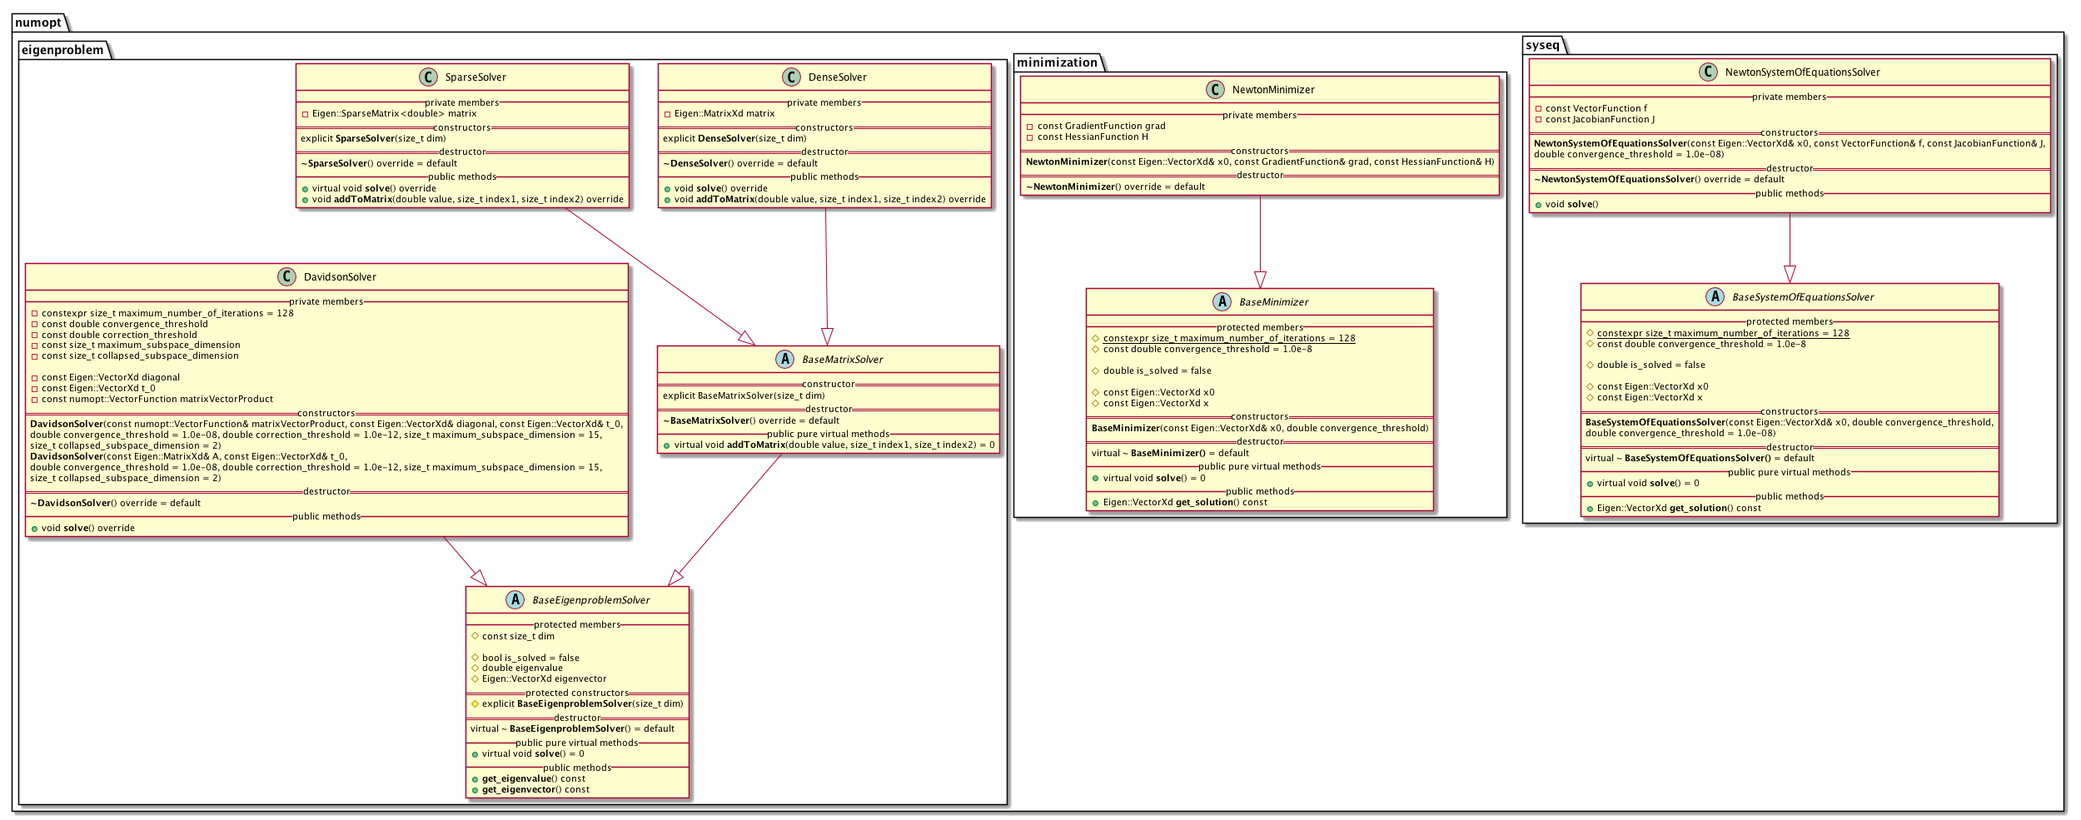
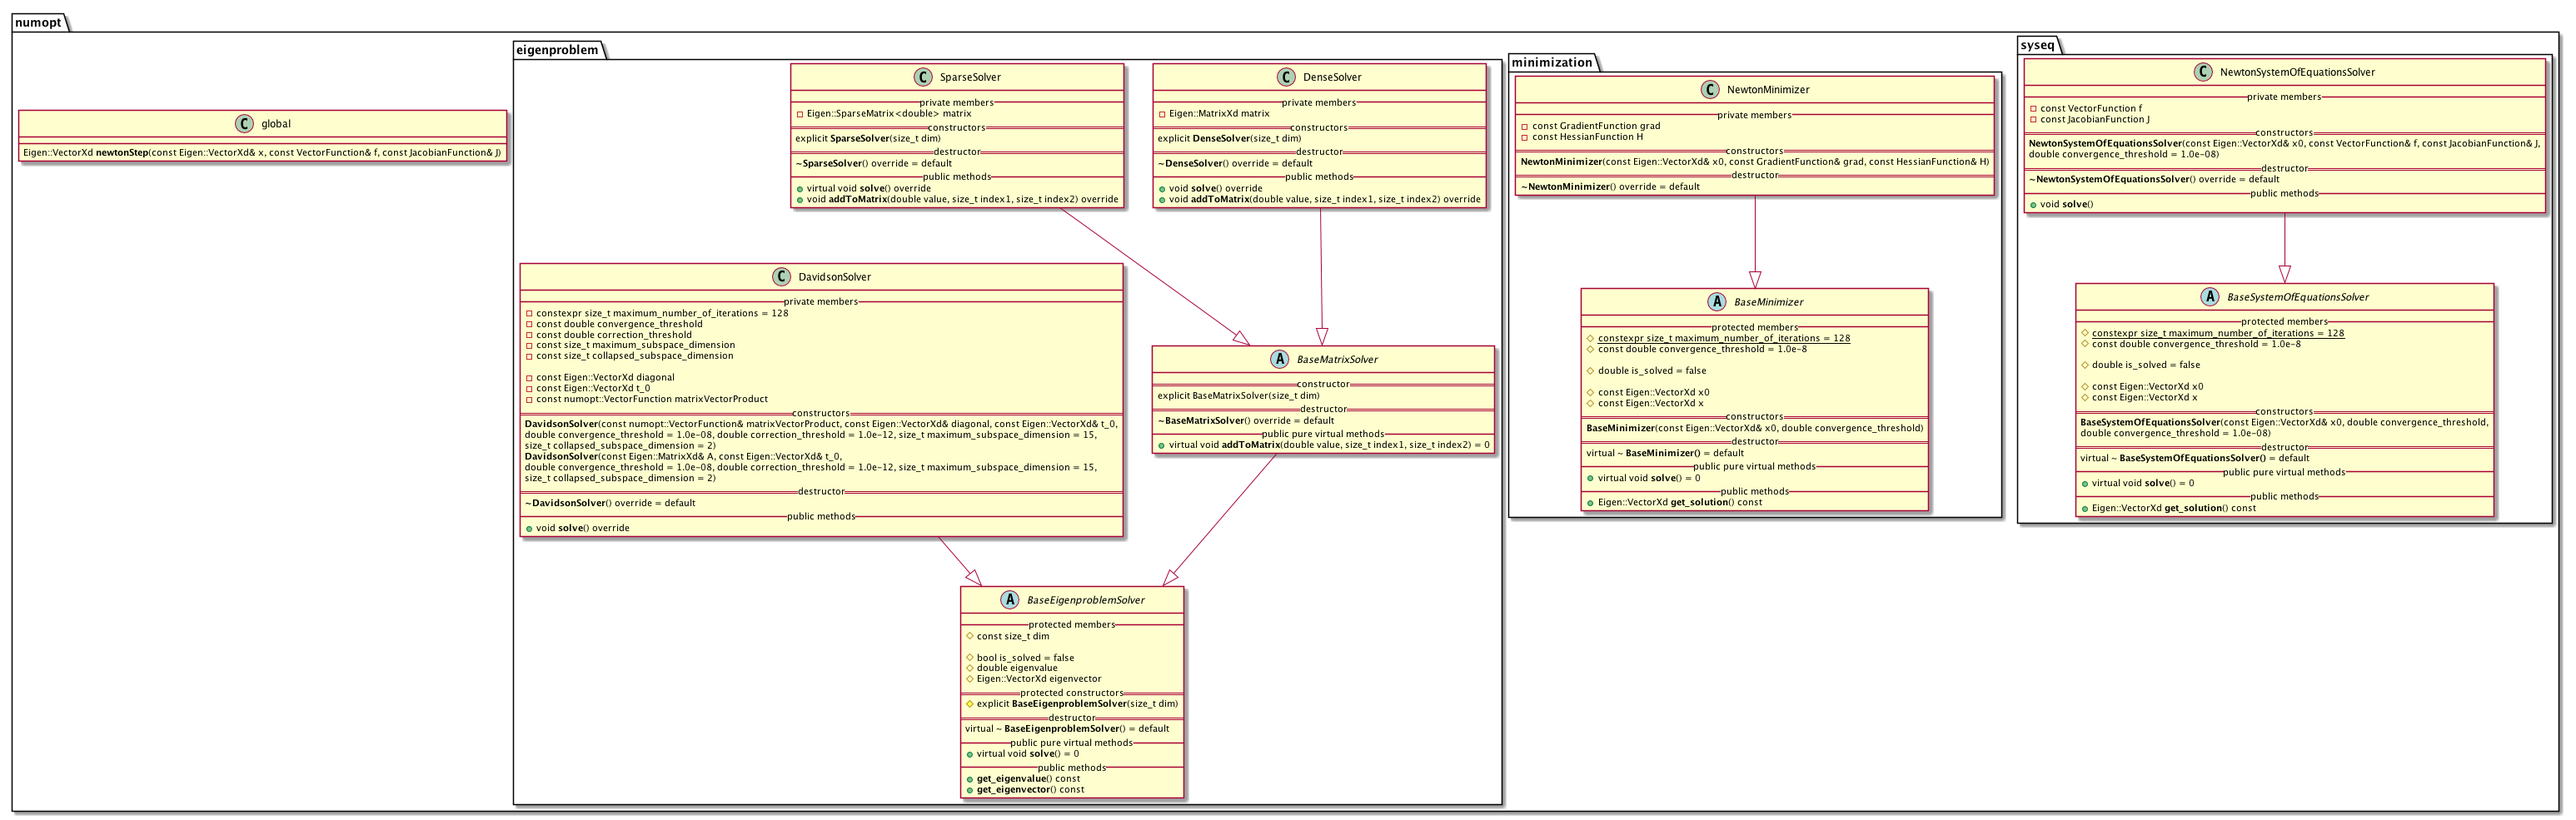
Extract the Newton step to an outside function.

diff --git a/src/step.cpp b/src/step.cpp
@@ -1,0 +1,39 @@
+// This file is part of GQCG-numopt.
+// 
+// Copyright (C) 2017-2018  the GQCG developers
+// 
+// GQCG-numopt is free software: you can redistribute it and/or modify
+// it under the terms of the GNU Lesser General Public License as published by
+// the Free Software Foundation, either version 3 of the License, or
+// (at your option) any later version.
+// 
+// GQCG-numopt is distributed in the hope that it will be useful,
+// but WITHOUT ANY WARRANTY; without even the implied warranty of
+// MERCHANTABILITY or FITNESS FOR A PARTICULAR PURPOSE.  See the
+// GNU Lesser General Public License for more details.
+// 
+// You should have received a copy of the GNU Lesser General Public License
+// along with GQCG-numopt.  If not, see <http://www.gnu.org/licenses/>.
+#include "step.hpp"
+
+
+namespace numopt {
+
+
+/**
+ *  Given a current point @param x, a callable vector function @param f and its corresponding callable Jacobian function
+ *  @param J, return the Newton step p:
+ *      J(x) p = - f
+ */
+Eigen::VectorXd newtonStep(const Eigen::VectorXd& x, const VectorFunction& f, const JacobianFunction& J) {
+
+    // Calculate f(x) and J(x), i.e. the values of the vector field and its Jacobian at the given x
+    Eigen::VectorXd f_vector = f(x);
+    Eigen::MatrixXd J_matrix = J(x);
+
+    // Return the actual Newton step
+    return J_matrix.colPivHouseholderQr().solve(-f_vector);
+}
+
+
+}  // namespace numopt

diff --git a/include/step.hpp b/include/step.hpp
@@ -1,0 +1,41 @@
+// This file is part of GQCG-numopt.
+// 
+// Copyright (C) 2017-2018  the GQCG developers
+// 
+// GQCG-numopt is free software: you can redistribute it and/or modify
+// it under the terms of the GNU Lesser General Public License as published by
+// the Free Software Foundation, either version 3 of the License, or
+// (at your option) any later version.
+// 
+// GQCG-numopt is distributed in the hope that it will be useful,
+// but WITHOUT ANY WARRANTY; without even the implied warranty of
+// MERCHANTABILITY or FITNESS FOR A PARTICULAR PURPOSE.  See the
+// GNU Lesser General Public License for more details.
+// 
+// You should have received a copy of the GNU Lesser General Public License
+// along with GQCG-numopt.  If not, see <http://www.gnu.org/licenses/>.
+#ifndef NUMOPT_STEP_HPP
+#define NUMOPT_STEP_HPP
+
+
+#include "common.hpp"
+
+#include <Eigen/Dense>
+
+
+
+namespace numopt {
+
+
+/**
+ *  Given a current point @param x, a callable vector function @param f and its corresponding callable Jacobian function
+ *  @param J, return the Newton step p:
+ *      J(x) p = - f
+ */
+Eigen::VectorXd newtonStep(const Eigen::VectorXd& x, const VectorFunction& f, const JacobianFunction& J);
+
+
+}  // namespace numopt
+
+
+#endif  // NUMOPT_STEP_HPP

diff --git a/src/NewtonSystemOfEquationsSolver.cpp b/src/NewtonSystemOfEquationsSolver.cpp
@@ -16,6 +16,8 @@
 // along with GQCG-numopt.  If not, see <http://www.gnu.org/licenses/>.
 #include "NewtonSystemOfEquationsSolver.hpp"
 
+#include "step.hpp"
+
 #include <iostream>
 
 
@@ -59,17 +61,14 @@ void NewtonSystemOfEquationsSolver::solve() {
 
     while (!(this->is_solved)) {
 
-        // 1. Calculate f(x) and J(x)
-        Eigen::VectorXd f = this->f(this->x);
-        Eigen::MatrixXd J = this->J(this->x);
+        // Calculate the Newton step
+        Eigen::VectorXd dx = numopt::newtonStep(this->x, this->f, this->J);
 
-        // 2. Solve the Newton step
-        Eigen::VectorXd dx = J.colPivHouseholderQr().solve(-f);
-
-        // 3. Update the current coefficients
+        // Update the current coefficients, using the Newton step
         this->x += dx;
 
-        // 4. Check for convergence
+
+        // Check for convergence
         if (dx.norm() <= this->convergence_threshold) {
             this->is_solved = true;
         } else {  // not is_solved yet
